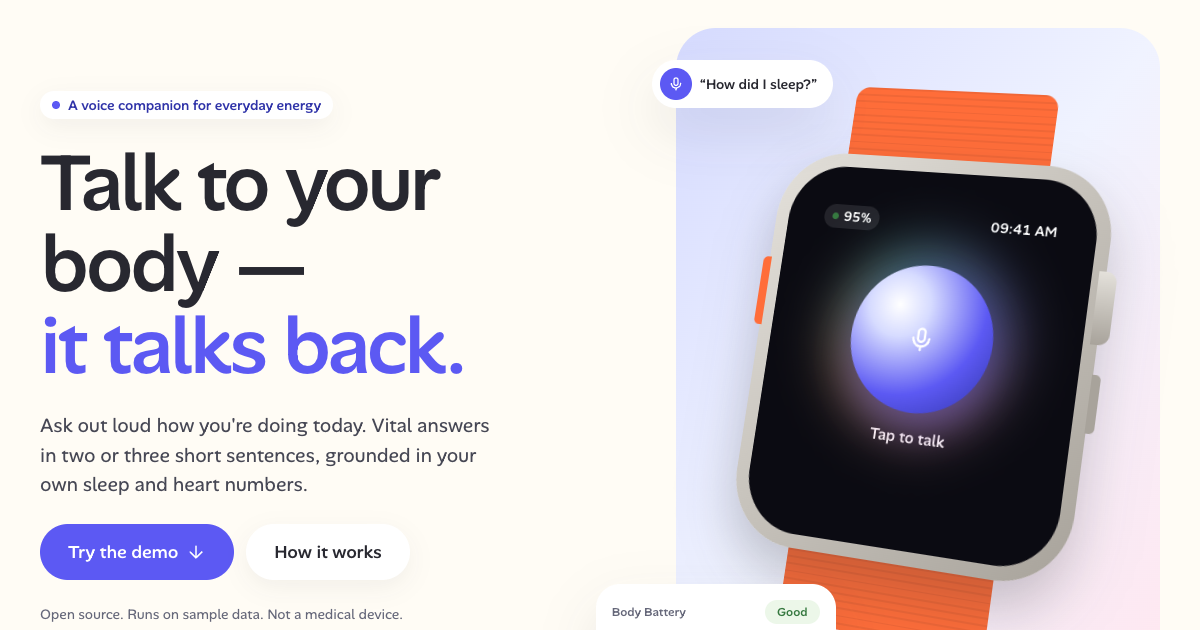
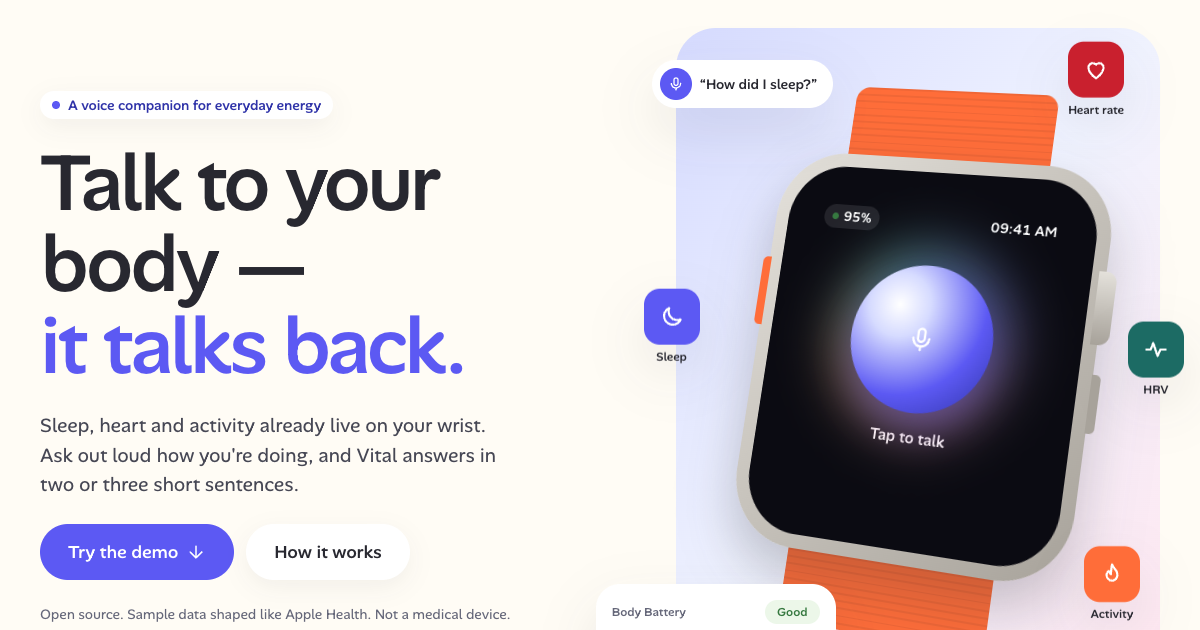
web: show the signals the watch brings together in the hero
Four app-style tiles (Sleep, Heart rate, HRV, Activity) float around the showcase watch. The glyphs are Vital's own, and the hero says the sample data is shaped like Apple Health.

diff --git a/apps/web/src/components/signal-sources.tsx b/apps/web/src/components/signal-sources.tsx
@@ -1,0 +1,68 @@
+import type { ReactNode } from "react";
+import { FlameIcon, HeartIcon, MoonIcon, PulseIcon } from "./icons";
+
+// The health signals the watch brings together, as app-style tiles.
+// Our own glyphs: they evoke the sources without using anyone's app icons.
+const SOURCES: {
+	label: string;
+	icon: ReactNode;
+	color: string;
+	place: string;
+}[] = [
+	{
+		label: "Sleep",
+		icon: <MoonIcon size={26} />,
+		color: "bg-indigo-500",
+		place: "lg:top-[40%] lg:-left-9",
+	},
+	{
+		label: "Heart rate",
+		icon: <HeartIcon size={26} />,
+		color: "bg-bad",
+		place: "lg:top-5 lg:right-8",
+	},
+	{
+		label: "HRV",
+		icon: <PulseIcon size={26} />,
+		color: "bg-teal-700",
+		place: "lg:top-[46%] lg:-right-7",
+	},
+	{
+		label: "Activity",
+		icon: <FlameIcon size={26} />,
+		color: "bg-band",
+		place: "lg:right-4 lg:bottom-14",
+	},
+];
+
+// A row under the watch on phones; floating around it from `lg`.
+export function SignalSources() {
+	return (
+		<ul
+			aria-label="Signals the watch brings together"
+			className="pointer-events-none relative z-20 mt-5 flex justify-center gap-3 sm:gap-5 lg:static lg:mt-0"
+		>
+			{SOURCES.map((s, i) => (
+				<li
+					key={s.label}
+					className={`animate-fade-up lg:absolute ${s.place}`}
+					style={{ animationDelay: `${600 + i * 120}ms` }}
+				>
+					<div
+						className="lg:animate-float flex w-16 flex-col items-center gap-1.5"
+						style={{ animationDelay: `${i * -1500}ms` }}
+					>
+						<span
+							className={`flex size-14 items-center justify-center rounded-2xl text-white shadow-lift ${s.color}`}
+						>
+							{s.icon}
+						</span>
+						<span className="text-xs leading-none font-medium whitespace-nowrap text-heading">
+							{s.label}
+						</span>
+					</div>
+				</li>
+			))}
+		</ul>
+	);
+}

diff --git a/apps/web/src/components/hero.tsx b/apps/web/src/components/hero.tsx
@@ -2,6 +2,7 @@ import type { Energy } from "#/lib/energy";
 import { SHOWCASE_QUESTION, showcaseLevel, useShowcase } from "#/lib/showcase";
 import { BatteryPreview } from "./battery-preview";
 import { ArrowDownIcon, MicIcon } from "./icons";
+import { SignalSources } from "./signal-sources";
 import { Watch } from "./watch";
 
 const noop = () => {};
@@ -29,8 +30,8 @@ export function Hero({ energy }: { energy: Energy }) {
 					<span className="block text-indigo-500">it talks back.</span>
 				</h1>
 				<p className="animate-fade-up max-w-[38ch] text-lead text-pretty [animation-delay:80ms]">
-					Ask out loud how you're doing today. Vital answers in two or three
-					short sentences, grounded in your own sleep and heart numbers.
+					Sleep, heart and activity already live on your wrist. Ask out loud how
+					you're doing, and Vital answers in two or three short sentences.
 				</p>
 				<div className="animate-fade-up flex flex-wrap justify-center gap-3 [animation-delay:160ms] lg:justify-start">
 					<a
@@ -48,7 +49,8 @@ export function Hero({ energy }: { energy: Energy }) {
 					</a>
 				</div>
 				<p className="animate-fade-up text-sm leading-5 text-caption [animation-delay:240ms]">
-					Open source. Runs on sample data. Not a medical device.
+					Open source. Sample data shaped like Apple Health. Not a medical
+					device.
 				</p>
 			</div>
 
@@ -76,6 +78,7 @@ export function Hero({ energy }: { energy: Energy }) {
 							</div>
 						</div>
 					</div>
+					<SignalSources />
 					<p
 						aria-hidden="true"
 						className="animate-fade-up absolute top-8 -left-6 hidden items-center gap-2 rounded-full bg-white py-2 pr-4 pl-2 text-sm font-medium text-heading shadow-lift [animation-delay:500ms] lg:flex"

diff --git a/apps/web/src/components/icons.tsx b/apps/web/src/components/icons.tsx
@@ -175,3 +175,35 @@ export function SpeakerIcon({ size = 24 }: { size?: number }) {
 		</svg>
 	);
 }
+
+export function MoonIcon({ size = 24 }: { size?: number }) {
+	return (
+		<svg width={size} height={size} aria-hidden="true" {...base}>
+			<path d="M20 14.5A8 8 0 0 1 9.5 4a8 8 0 1 0 10.5 10.5z" />
+		</svg>
+	);
+}
+
+export function HeartIcon({ size = 24 }: { size?: number }) {
+	return (
+		<svg width={size} height={size} aria-hidden="true" {...base}>
+			<path d="M12 20s-7-4.4-7-10a4 4 0 0 1 7-2.6A4 4 0 0 1 19 10c0 5.6-7 10-7 10z" />
+		</svg>
+	);
+}
+
+export function PulseIcon({ size = 24 }: { size?: number }) {
+	return (
+		<svg width={size} height={size} aria-hidden="true" {...base}>
+			<path d="M3 12h4l2.5-6 4 12 2.5-6h5" />
+		</svg>
+	);
+}
+
+export function FlameIcon({ size = 24 }: { size?: number }) {
+	return (
+		<svg width={size} height={size} aria-hidden="true" {...base}>
+			<path d="M12 3c1 3.5 5 5 5 10a5 5 0 0 1-10 0c0-2 1-3.2 2-4 .2 1.5 1 2.5 2 3 0-3 .5-6 1-9z" />
+		</svg>
+	);
+}

diff --git a/docs/design-notes.md b/docs/design-notes.md
@@ -30,7 +30,7 @@ Same family as the French health products it was built alongside, with its own i
 
 **The watch answers on its own screen.** While thinking it shows the question; then the orb shrinks to the bottom and the answer takes the screen in large type. The conversation panel stays in the demo as the written record and the place to type.
 
-**The hero sells, the demo plays.** A first version made the hero watch interactive. It was honest but flat: a control, not a product shot. The hero watch now sits at an angle on a pastel stage and loops a scripted exchange (ask, think, answer) using the real UI. The headline carries the promise: "Talk to your body — it talks back." One button leads to the demo, where the same watch is live.
+**The hero sells, the demo plays.** A first version made the hero watch interactive. It was honest but flat: a control, not a product shot. The hero watch now sits at an angle on a pastel stage and loops a scripted exchange (ask, think, answer) using the real UI. The headline carries the promise: "Talk to your body — it talks back." One button leads to the demo, where the same watch is live. Four app-style tiles (Sleep, Heart rate, HRV, Activity) float around it to say that the signals already live on the wrist. They are drawn for Vital: Apple's own app icons are not ours to use, and the data is a sample, so the hero says "shaped like Apple Health" rather than implying an integration.
 
 **Demo controls are labeled as demo controls.** The sample-day picker is a segmented control inside a "Demo data" strip that collapses. Sliders stay behind "Adjust numbers".
 

diff --git a/CLAUDE.md b/CLAUDE.md
@@ -39,7 +39,7 @@ public/                 # Static assets used by README.md
 | 8 | Final call to action | `final-cta.tsx` | |
 | 9 | Footer with the medical disclaimer | `site-footer.tsx` | |
 
-Product components: `watch`, `orb`, `body-battery-card`, `battery-preview`, `energy-gauge`, `level-pill`, `conversation`, `ask-bar`, `notice-card`, `scenario-control`, `demo-data-panel`, `release-footer`. Building blocks: `section-heading`, `reveal`, `logo`, `icons`.
+Product components: `watch`, `orb`, `signal-sources`, `body-battery-card`, `battery-preview`, `energy-gauge`, `level-pill`, `conversation`, `ask-bar`, `notice-card`, `scenario-control`, `demo-data-panel`, `release-footer`. Building blocks: `section-heading`, `reveal`, `logo`, `icons`.
 
 ## Commands
 
